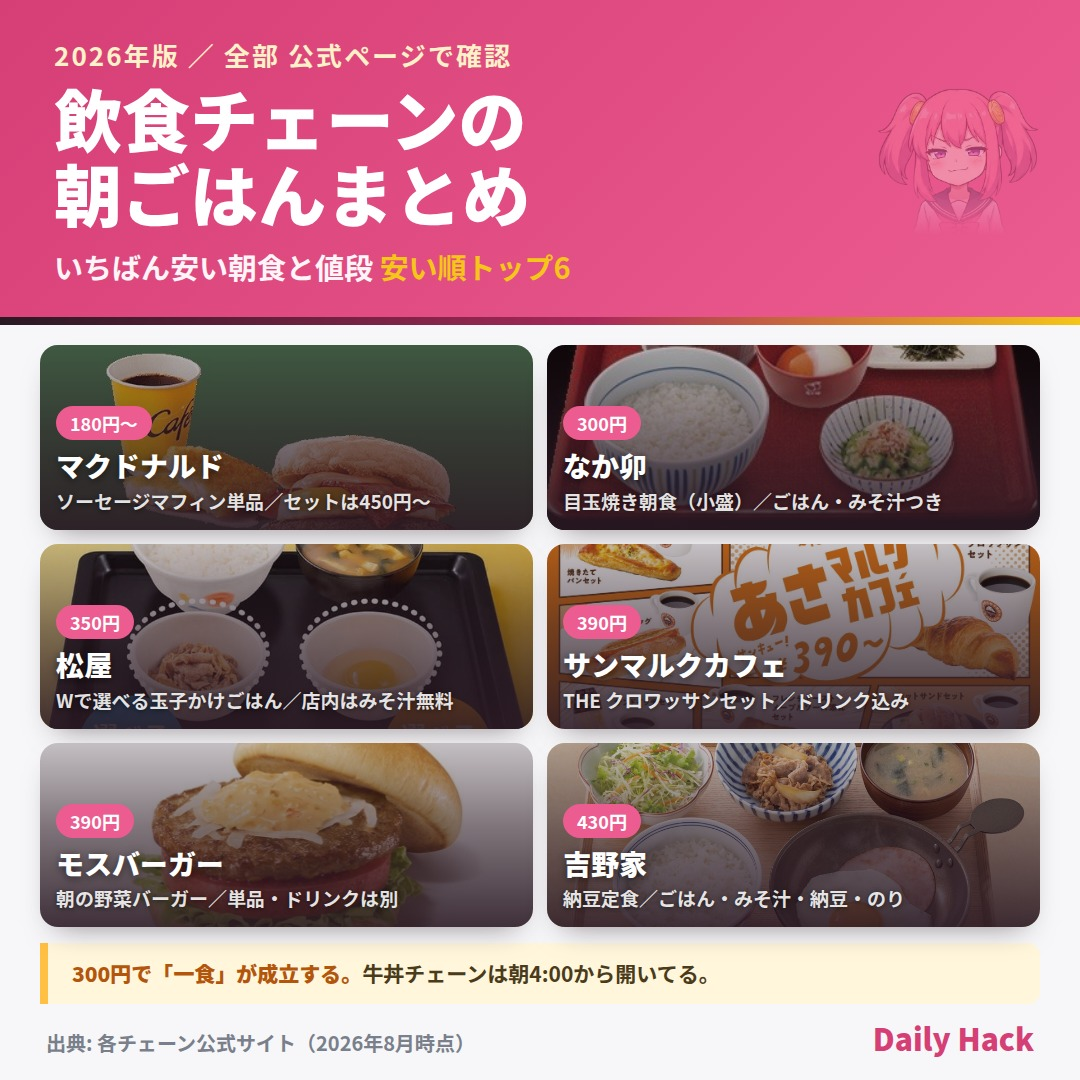
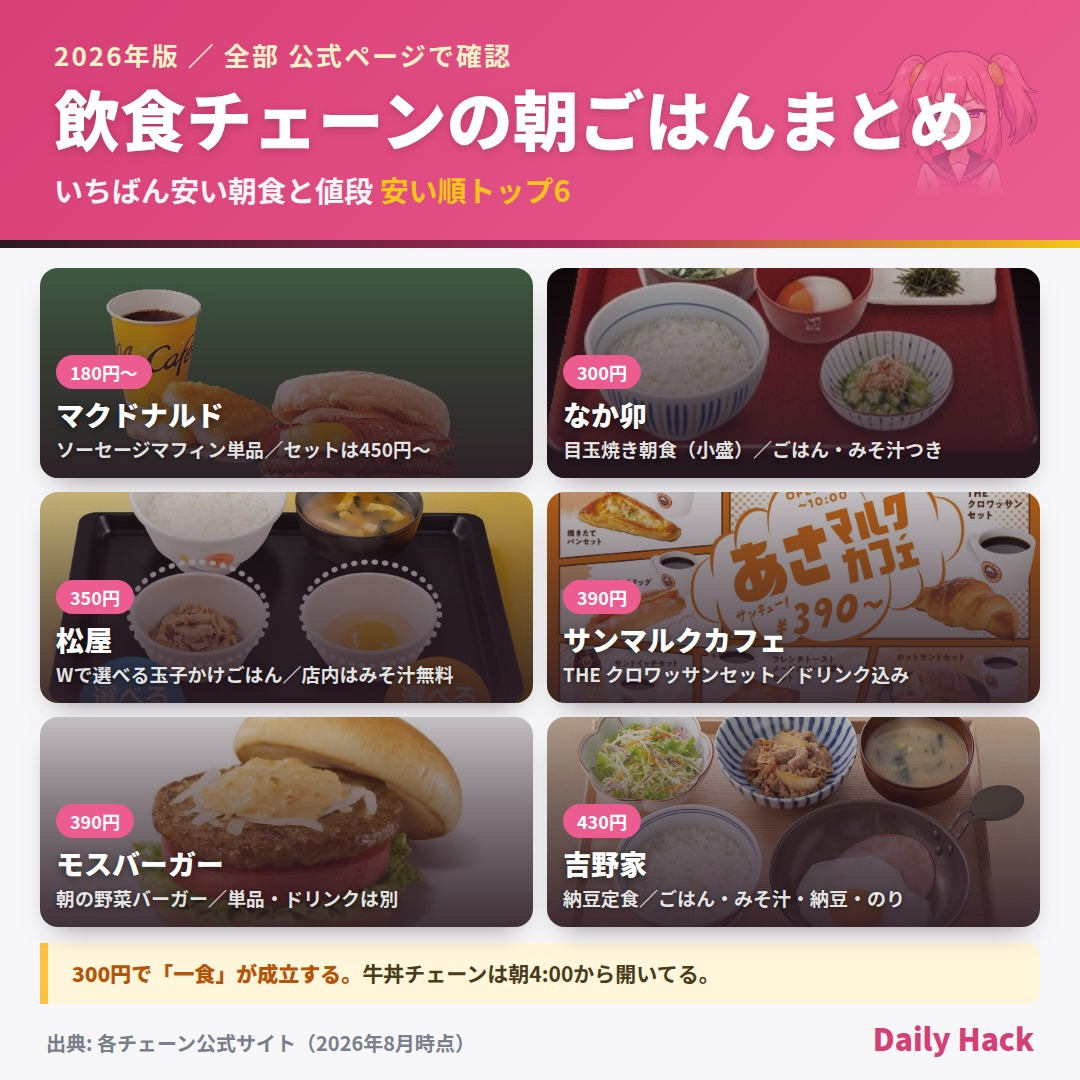
feat: 見出しを 1 行に自動で収める（透かしのキャラに重ねる）
指摘（2026-09-05）:
  > 一行でまとめて。文字サイズを少し小さくすればいいでしょう。
  > 透過した画像の上に乗ってもいいので

- `h1` のサイズを**文字数から自動計算**（`Math.floor(960 / 文字数)`・上限 78px・下限 48px）
- **11 文字以上は幅の上限を外し、透かしのキャラに重ねる**（短い見出しは従来どおり避ける）
- `white-space: nowrap` で折り返しを禁止
- 重なる前提なので `text-shadow` を薄く足し、見出しを `z-index: 1` で前面へ
- `cover.titleSize` を書けば手動指定できる

「飲食チェーンの朝ごはんまとめ」（14 文字）は 68px で 1 行に収まった。
`<br>` は不要になったので JSON からも外した。

x-post-images スキルの §2-B と §6 を更新（「折れたら <br> で切る」→「自動で収まる」）。

Claude-Session: https://claude.ai/code/session_01H2JQqdMCeKNiMVUTrAyX2t

diff --git a/.claude/skills/x-post-images/SKILL.md b/.claude/skills/x-post-images/SKILL.md
@@ -107,8 +107,9 @@ node scripts/gen-x-cards.mjs ops/data/x-cards/<slug>.json
   帯の中で**上下中央**に入り、下端は地に溶ける。
   元画像はバストアップで裾が真横に切れているので、**そのまま置くと四角い箱に見える**
 - 表情は記事の空気で選ぶ。得意げなら `expr-05-smug`、応援なら `expr-04-cheer`
-- **見出しが折り返さないか必ず見る。** キャラの幅だけ見出しの領域が狭くなる。
-  折れたら `title` を短くするか `<br>` で自分で切る
+- **見出しは自動で 1 行に収まる。** 文字数からサイズを決め、11 文字以上は
+  幅の上限を外して**透かしのキャラに重ねる**。`<br>` を入れる必要は無い
+  （`cover.titleSize` で手動指定はできる）
 
 温泉マーク（♨）は**画像を取りに来ず SVG で描いている。**
 
@@ -159,6 +160,7 @@ node scripts/gen-x-cards.mjs ops/data/x-cards/<slug>.json
 | 2026-09-05 | **1 枚目の右上のキャラを透過して表示して** | **PNG 自体は透過していた**（`expr-*.png` は RGBA・四隅 alpha=0）。原因は元画像がバストアップで**白いセーラー服の裾が真横に切れている**こと。濃紺の帯に置くと切り口が四角い箱に見える。`.hero .mascot` に `mask-image: linear-gradient(to bottom, #000 72%, transparent 97%)` を当てて切り口を地に溶かした。`gen-x-cards.mjs` 側なので以後のカード全部に効く |
 | 2026-09-05 | **上部の紺色の帯がブログのカラーと合っていない。毎回 同じ色ではなく、いくつかパターンを作って** | 紺 `#16243f` は `src/styles/global.css` の `:root` に**存在しない色**だった。ブログは**ピンク＋クリーム＋黄、地は濃いプラム `--ink: #2A1923`**。`:root` のトークンだけで 5 テーマを作った（`plum` / `berry` / `rose` / `cream` / `ink`）。`cover.theme` で指定、無指定なら **slug から自動で散らす**（記事ごとに変わり、同じ記事では毎回 同じ） |
 | 2026-09-05 | **キャラをもっと透過させて。顔の部分がうっすら帯に表示されているようなデザインに。位置は帯の中で上下中央** | `.hero .mascot` に `opacity`（`cover.mascotOpacity`・既定 0.38）を追加し、`.hero` を `top:0; bottom:0; align-items:center` にして帯の中央へ。下端のぼかしは 72% → 62% に広げた |
+| 2026-09-05 | **見出しは一行でまとめて。文字サイズを少し小さくすればいい。透過した画像の上に乗ってもいい** | `h1` を**文字数から自動で縮める**ようにした（`Math.floor(960 / 文字数)`・下限 48px）。**11 文字以上は幅の上限を外して透かしのキャラに重ねる**（短い見出しは従来どおり避ける）。`white-space: nowrap` で折り返しを禁止し、可読性のため薄い影を足した。`cover.titleSize` で手動指定も可 |
 <!-- 追記はこの表の下に。日付・指摘・反映 の 3 列を必ず埋める -->
 
 ## 7. 関連
